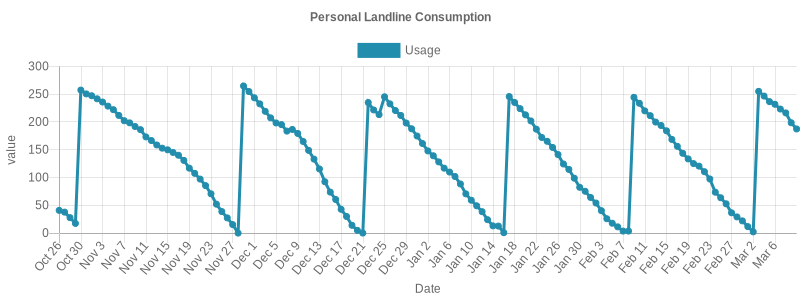
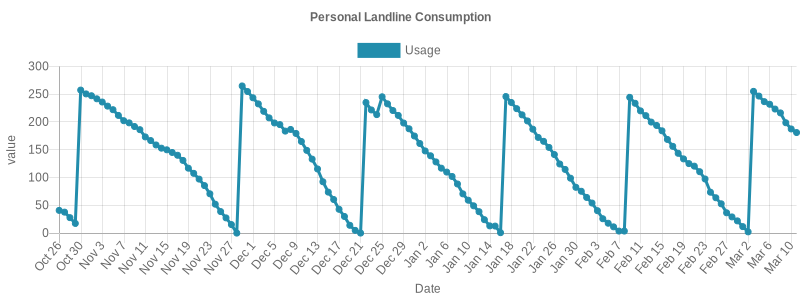
update logs

diff --git a/quota-logs/README.md b/quota-logs/README.md
@@ -135,3 +135,4 @@
 ## Fri Mar 08 2024 00:35:41 GMT+0200|216.31/250
 ## Sat Mar 09 2024 00:34:30 GMT+0200|198.6/250
 ## Sun Mar 10 2024 00:34:43 GMT+0200|187.4/250
+## Mon Mar 11 2024 00:35:22 GMT+0200|180.97/250
